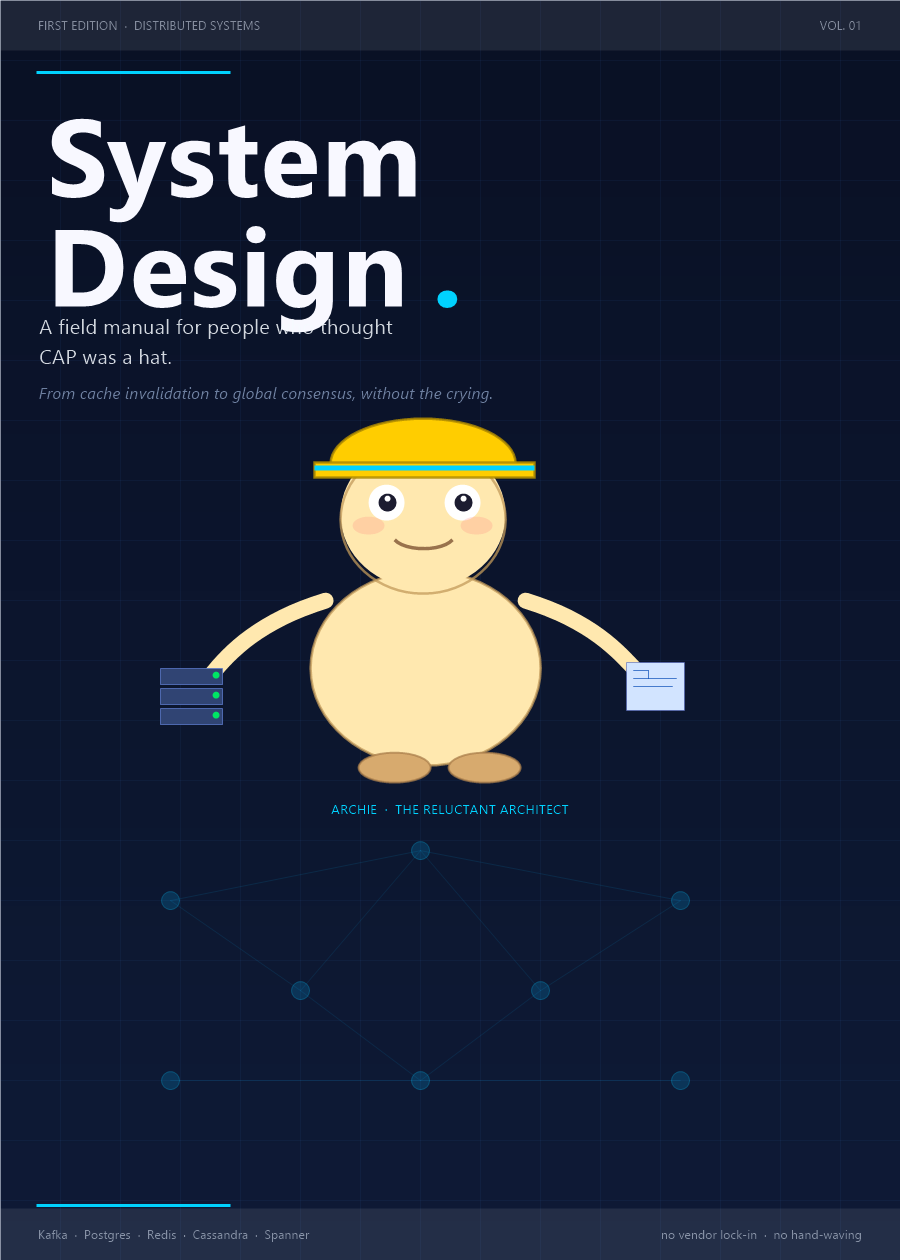
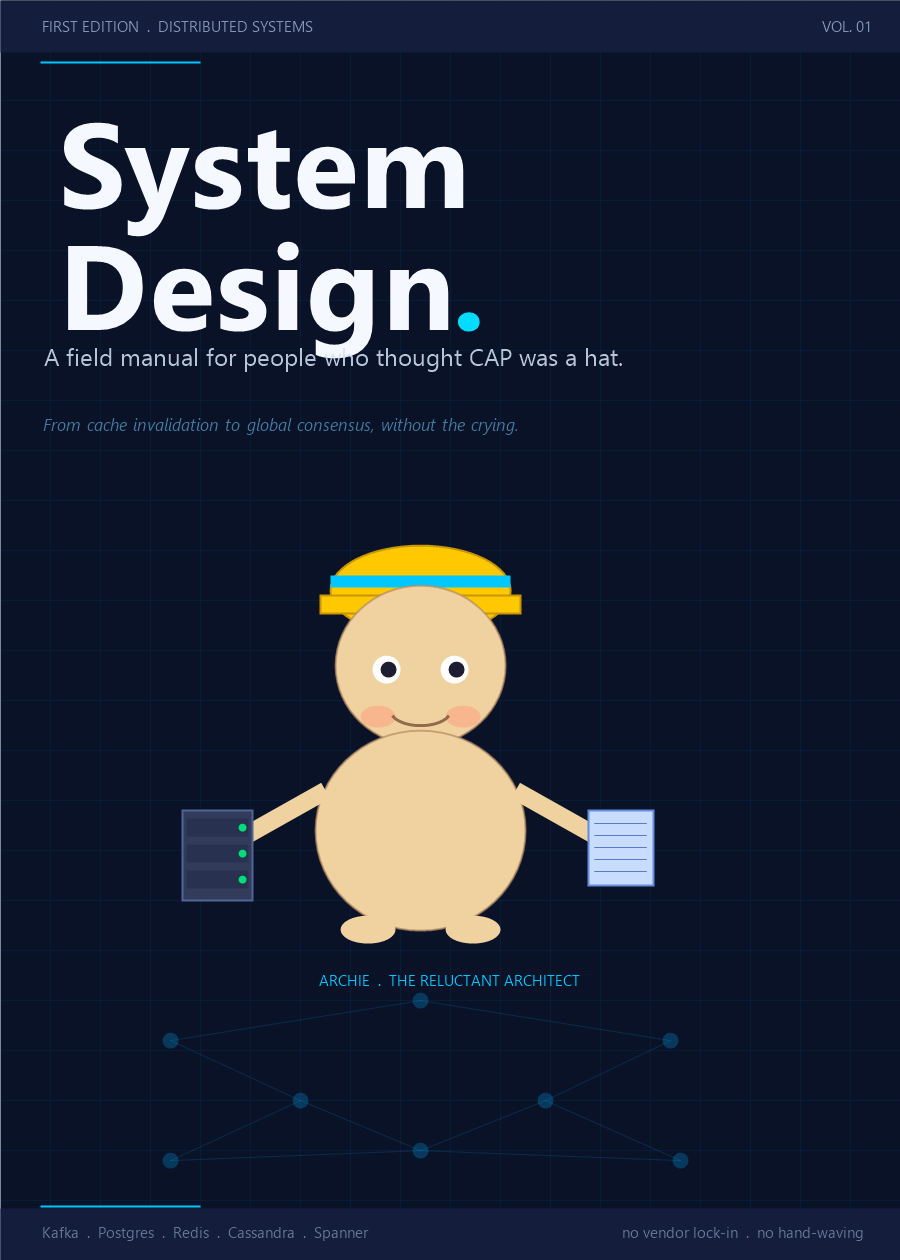
Fix cover layout: clear zone separation, no overlaps; strip [!tip] callouts

diff --git a/src/ch16-competing-systems.md b/src/ch16-competing-systems.md
@@ -1,7 +1,6 @@
 # 16. Competing Systems — Same Problem, Different Choices
 
-> [!note]
-> Every "build X like Y" interview question is secretly asking: "do you understand why Y made the choices Y made?"
+> **Note:** Every "build X like Y" interview question is secretly asking: "do you understand why Y made the choices Y made?"
 > Two products in the same space solve the same user need with different bets on scale, consistency, and latency.
 > This chapter maps those bets.
 
@@ -395,5 +394,4 @@ flowchart TD
 | Slack vs WhatsApp | Enterprise search + threads vs E2E encrypted consumer messaging |
 | Stripe vs UPI | Card network rail vs interbank real-time rail |
 
-> [!tip]
-> The fastest way to answer a "compare X and Y" question is to first establish that both systems have an identical core (they always do), then precisely identify the one architectural decision where they diverge — and explain why that decision was forced by their business model, not just technology preference.
+> **Tip:** The fastest way to answer a "compare X and Y" question is to first establish that both systems have an identical core (they always do), then precisely identify the one architectural decision where they diverge — and explain why that decision was forced by their business model, not just technology preference.

diff --git a/src/ch14-local-cloud-equivalents.md b/src/ch14-local-cloud-equivalents.md
@@ -1,7 +1,6 @@
 # 14. Local-First and Cloud Equivalents
 
-> [!important]
-> Start local and open-source. If a managed cloud service is justified, name the equivalent across GCP, AWS, and Azure so the design stays portable.
+> **Important:** Start local and open-source. If a managed cloud service is justified, name the equivalent across GCP, AWS, and Azure so the design stays portable.
 
 ```mermaid
 flowchart LR
@@ -38,5 +37,4 @@ flowchart LR
 
 > "I would start with PostgreSQL, HAProxy, Redis, and Kafka on Kubernetes. If we need managed operations, that maps to Cloud SQL / RDS / Azure Database for PostgreSQL, Cloud Load Balancing / ALB / Application Gateway, Memorystore / ElastiCache / Azure Cache for Redis, and Pub/Sub / SQS or SNS / Service Bus."
 
-> [!tip]
-> Portability is a design choice. Vendor names are just aliases until the requirements force otherwise.
+> **Tip:** Portability is a design choice. Vendor names are just aliases until the requirements force otherwise.

diff --git a/src/ch07-messaging-events.md b/src/ch07-messaging-events.md
@@ -1,7 +1,6 @@
 # 7. Messaging and Event-Driven Systems
 
-> [!tip]
-> A broker turns direct coupling into an operational problem you can actually reason about.
+> **Tip:** A broker turns direct coupling into an operational problem you can actually reason about.
 
 ```mermaid
 flowchart LR
@@ -52,8 +51,7 @@ sequenceDiagram
 | At-least-once | may duplicate | common, practical |
 | Exactly-once | scoped transactional processing | end-to-end still needs idempotent sinks |
 
-> [!note]
-> Kafka's "exactly once" is about the stream processing pipeline with transactions and idempotent producers/consumers. End-to-end exactly-once is still a system property, not a checkbox.
+> **Note:** Kafka's "exactly once" is about the stream processing pipeline with transactions and idempotent producers/consumers. End-to-end exactly-once is still a system property, not a checkbox.
 
 ## Patterns
 

diff --git a/src/ch11-open-source-stack.md b/src/ch11-open-source-stack.md
@@ -1,7 +1,6 @@
 # 11. Open Source Production Stack
 
-> [!important]
-> Real production systems are usually not built from one shiny database. They are built from boring, dependable tools that fail in understandable ways.
+> **Important:** Real production systems are usually not built from one shiny database. They are built from boring, dependable tools that fail in understandable ways.
 > Prefer local/open-source primitives first; use managed cloud only when it materially reduces risk or ops burden.
 
 ```mermaid
@@ -113,5 +112,4 @@ sequenceDiagram
 | General time-series ingest | InfluxDB |
 | Analytics over large event sets | ClickHouse |
 
-> [!tip]
-> If the question is "can PostgreSQL do this?", the right answer is "yes, until the workload says no."
+> **Tip:** If the question is "can PostgreSQL do this?", the right answer is "yes, until the workload says no."

diff --git a/src/ch15-production-topologies.md b/src/ch15-production-topologies.md
@@ -1,7 +1,6 @@
 # 15. Production Topologies
 
-> [!note]
-> "We'll figure out production later" is a classic engineer promise that becomes a 3 AM incident.
+> **Note:** "We'll figure out production later" is a classic engineer promise that becomes a 3 AM incident.
 > These are the real cluster layouts that don't fall over when someone looks at them sideways.
 
 ```mermaid
@@ -493,6 +492,5 @@ flowchart LR
 | MongoDB RS | replica set election | ~10–30 s | none with writeConcern=majority |
 | Spanner | Paxos minority failure | transparent | none |
 
-> [!tip]
-> The best cluster topology is the one your on-call team can reason about at 3 AM without reading the docs.
+> **Tip:** The best cluster topology is the one your on-call team can reason about at 3 AM without reading the docs.
 > Boring, well-understood, and observable beats clever and opaque every time.

diff --git a/src/ch04-storage-transactions.md b/src/ch04-storage-transactions.md
@@ -1,7 +1,6 @@
 # 4. Storage, Indexes, and Transactions
 
-> [!tip]
-> Storage design is mostly about matching access patterns to the right shape of data.
+> **Tip:** Storage design is mostly about matching access patterns to the right shape of data.
 
 ```mermaid
 flowchart TD
@@ -88,5 +87,4 @@ sequenceDiagram
 | Snapshot isolation | stable snapshot | write skew |
 | Serializable | behaves like one-at-a-time | lower throughput |
 
-> [!note]
-> A transaction is not correct because it "usually works." It is correct when the invariants survive the worst interleaving you can imagine.
+> **Note:** A transaction is not correct because it "usually works." It is correct when the invariants survive the worst interleaving you can imagine.

diff --git a/src/ch13-distributed-patterns.md b/src/ch13-distributed-patterns.md
@@ -1,7 +1,6 @@
 # 13. Distributed System Patterns
 
-> [!important]
-> These are the primitives that keep distributed systems from turning into group projects with outages.
+> **Important:** These are the primitives that keep distributed systems from turning into group projects with outages.
 
 ```mermaid
 flowchart LR
@@ -108,5 +107,4 @@ sequenceDiagram
   Note over L,F: stale leader loses token after failover
 ```
 
-> [!tip]
-> If you remember only one thing: logs make recovery possible, leases make ownership safe, and fencing makes failover sane.
+> **Tip:** If you remember only one thing: logs make recovery possible, leases make ownership safe, and fencing makes failover sane.

diff --git a/src/ch12-google-products.md b/src/ch12-google-products.md
@@ -1,7 +1,6 @@
 # 12. Google Product Archetypes
 
-> [!note]
-> For Google products, the product name is just a wrapper. The real target is the concept pattern hidden inside it.
+> **Note:** For Google products, the product name is just a wrapper. The real target is the concept pattern hidden inside it.
 
 ```mermaid
 flowchart TB
@@ -182,5 +181,4 @@ flowchart LR
   Cons --> Flow[Draw request flow]
 ```
 
-> [!tip]
-> The best answer is not "I would use X." It is "for this product, the hard part is Y, so I need X to make Y safe."
+> **Tip:** The best answer is not "I would use X." It is "for this product, the hard part is Y, so I need X to make Y safe."

diff --git a/src/ch10-reliability-ops.md b/src/ch10-reliability-ops.md
@@ -1,7 +1,6 @@
 # 10. Reliability, Security, Observability, and Deployment
 
-> [!warning]
-> The best architecture still fails if nobody can see it, secure it, or recover it.
+> **Warning:** The best architecture still fails if nobody can see it, secure it, or recover it.
 
 ```mermaid
 flowchart LR
@@ -80,6 +79,5 @@ flowchart LR
 - RTO and RPO targets
 - Incident runbooks
 
-> [!tip]
-> If your system cannot be observed or rolled back, it is not production-ready; it is just exposed.
+> **Tip:** If your system cannot be observed or rolled back, it is not production-ready; it is just exposed.
 

diff --git a/src/ch09-realtime-coordination.md b/src/ch09-realtime-coordination.md
@@ -1,7 +1,6 @@
 # 9. Realtime Systems and Coordination
 
-> [!tip]
-> Realtime systems are just normal systems with a shorter patience budget.
+> **Tip:** Realtime systems are just normal systems with a shorter patience budget.
 
 ```mermaid
 stateDiagram-v2
@@ -119,5 +118,4 @@ flowchart LR
   PB --> WS2
 ```
 
-> [!note]
-> WebSocket servers are stateful enough that horizontal scale usually needs a shared backplane for fanout and presence.
+> **Note:** WebSocket servers are stateful enough that horizontal scale usually needs a shared backplane for fanout and presence.

diff --git a/src/ch17-cheatsheet.md b/src/ch17-cheatsheet.md
@@ -1,7 +1,6 @@
 # 17. The Cheat Sheet
 
-> [!note]
-> Print this. Tattoo it. Read it in the Uber to your interview.
+> **Note:** Print this. Tattoo it. Read it in the Uber to your interview.
 > This is the one chapter where brevity is the entire point.
 
 ---
@@ -394,6 +393,5 @@ flowchart TD
   C -->|write consistency| WT2[Write-through]
 ```
 
-> [!tip]
-> In an interview you won't have this cheat sheet. So read it until it's in your head,
+> **Tip:** In an interview you won't have this cheat sheet. So read it until it's in your head,
 > not on the page.

diff --git a/src/ch01-playbook.md b/src/ch01-playbook.md
@@ -1,7 +1,6 @@
 # 1. The System Design Playbook
 
-> [!important]
-> Do not start with technology choices. Start with the problem, the scale, and the failure modes.
+> **Important:** Do not start with technology choices. Start with the problem, the scale, and the failure modes.
 
 ```mermaid
 flowchart TD
@@ -56,5 +55,4 @@ flowchart LR
   R --> I[Iterate]
 ```
 
-> [!tip]
-> If you cannot explain the hot path in one sentence, the design is not ready yet.
+> **Tip:** If you cannot explain the hot path in one sentence, the design is not ready yet.
